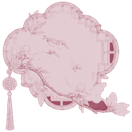
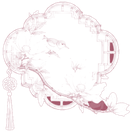
v117: 另起一页花窗图标调亮，跟传音、听曲一样浅；图标缓存号换新 (#32)

diff --git a/v102.js b/v102.js
@@ -9,7 +9,7 @@ try{
   var R=document.documentElement;
   var ICON={btnPlus:'zhuchuang',btnEmo:'meiping',btnPic:'niaolong',btnSend:'pingfeng'};
   function tone(){var t=R.dataset.gt;return t==='zi'||t==='qing'?t:'fen'}
-  function src(n){return 'chat/ic/'+n+'_'+tone()+'.png?v=104'}
+  function src(n){return 'chat/ic/'+n+'_'+tone()+'.png?v=117'}
 
   // ── 顶栏、底栏底图：插一层真的 div，不占用别处已经在用的 ::before ──
   function layer(host,cls){
@@ -126,7 +126,7 @@ try{
 (function(){
   var R=document.documentElement;
   function tone(){var t=R.dataset.gt;return t==='zi'||t==='qing'?t:'fen'}
-  function src(n){return 'chat/ic/'+n+'_'+tone()+'.png?v=104'}
+  function src(n){return 'chat/ic/'+n+'_'+tone()+'.png?v=117'}
   var MAP={'语音通话':['ruyi','传音'],'传音':['ruyi','传音'],'听歌':['zhuping','听曲'],'听曲':['zhuping','听曲']};
   function paint(){
     var pp=document.getElementById('plusp');if(!pp)return;

diff --git a/index.html b/index.html
@@ -123,7 +123,7 @@
 <script>
 // 先把图片大仓打开，再跑 app.js；media.js 要是没加载上就直接按顺序跑，页面照旧能用
 (function(){
-  var list=['app.js?v=89','v89.js?v=90','v92.js?v=92','v93.js?v=93','v99.js?v=107','v101.js?v=109','v102.js?v=116','v109.js?v=110','v111.js?v=116','v112.js?v=116','v113.js?v=113'];
+  var list=['app.js?v=89','v89.js?v=90','v92.js?v=92','v93.js?v=93','v99.js?v=107','v101.js?v=109','v102.js?v=117','v109.js?v=110','v111.js?v=116','v112.js?v=116','v113.js?v=113'];
   if(window.ZikaMedia&&ZikaMedia.boot){ZikaMedia.boot(list);return}
   (function next(i){
     if(i>=list.length)return;
